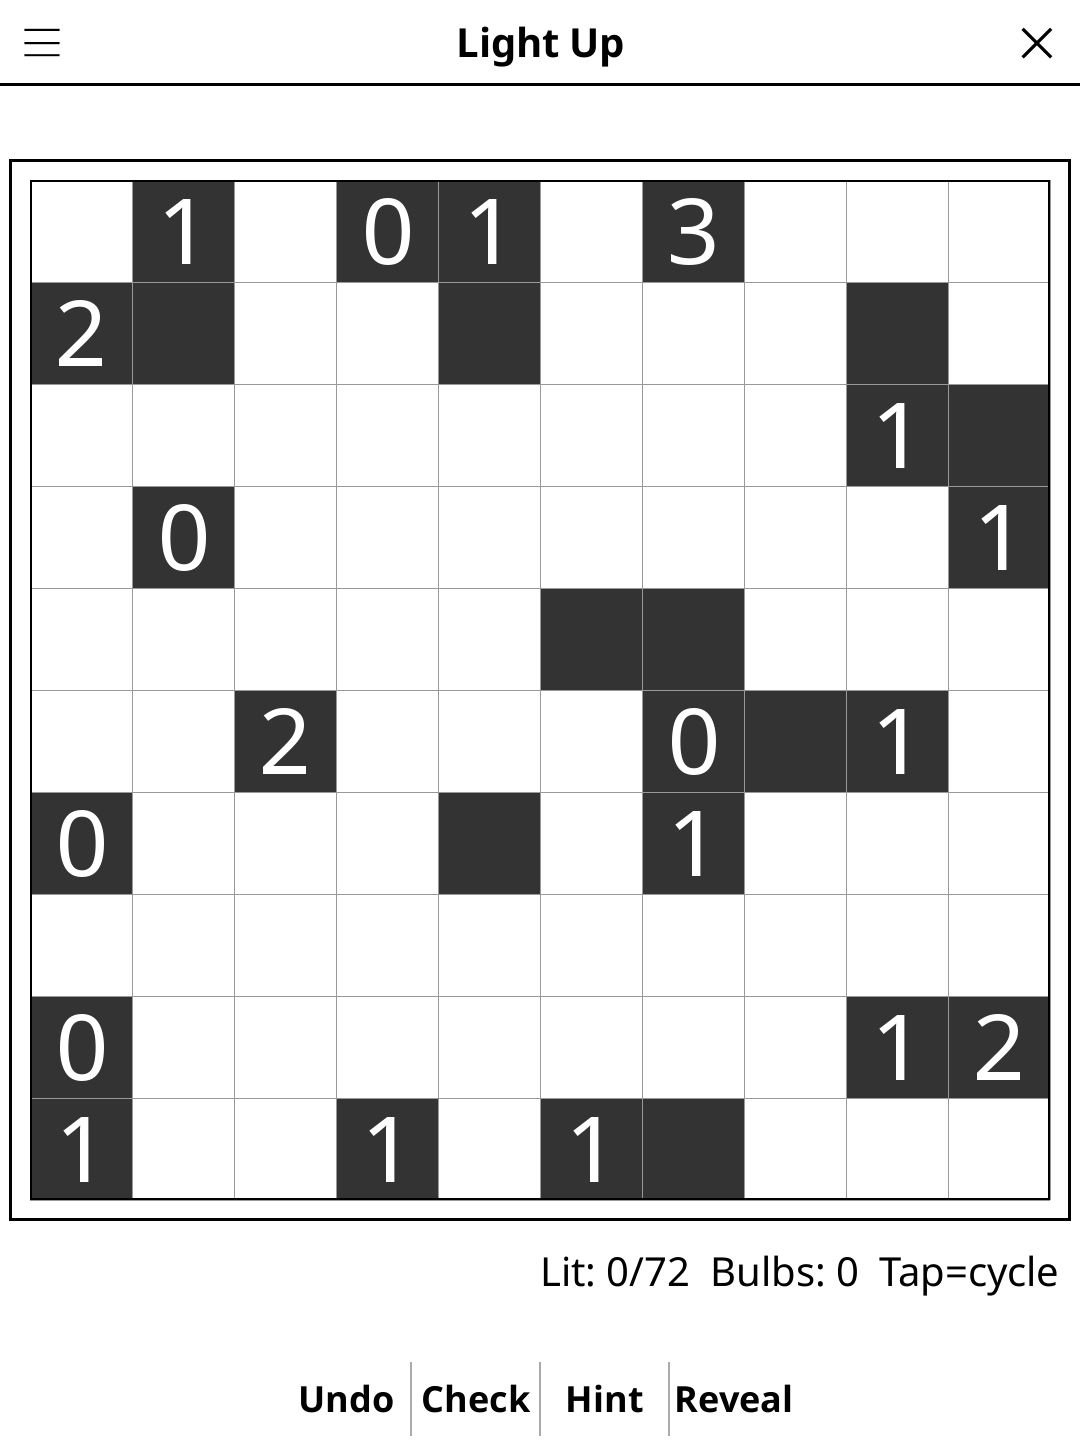
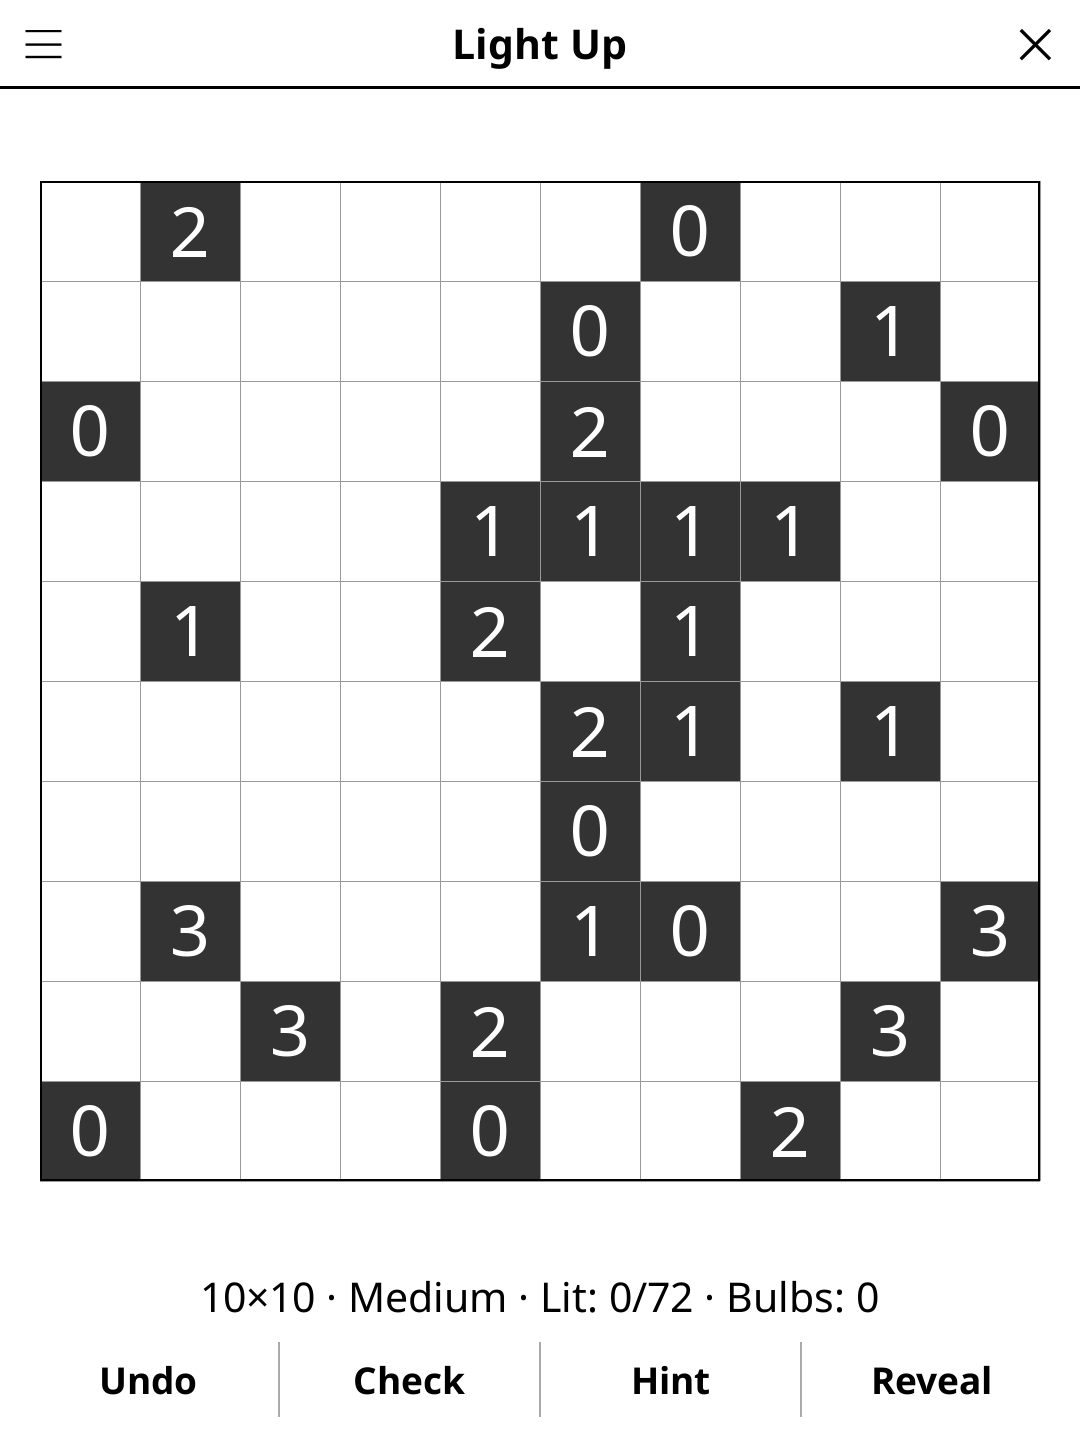
release: 1.3.0 -- redesigned screen, harmonised menu, New game at round end
Screen redesign (full-width action bar, unified pad, status line, larger
board), harmonised title-bar menu, and a "New game" button once the round
is over. See CHANGELOG.md.

diff --git a/CHANGELOG.md b/CHANGELOG.md
@@ -2,6 +2,30 @@
 
 All notable changes to this project will be documented in this file.
 
+## [1.3.0] - 2026-10-30
+
+### Added
+- "New game" once the puzzle is solved (or revealed): the action bar shows
+  it in place of Undo, Check, Hint and Reveal, so the next puzzle no longer
+  needs the menu.
+
+### Changed
+- Redesigned play screen, in line with the other games: a full-width action
+  bar, a larger board that fills the available room, and one frame around
+  it. The status line reads "size · difficulty · Lit: n/m · Bulbs: n" and
+  wraps in landscape instead of being cut off; the tap/hold help moved from
+  the status line to the rules.
+- Title-bar menu shows the current values: "Size: …" and "Difficulty: …"
+  instead of bare values.
+- The dot marking a cell that can't hold a bulb is a painted disc, easier to
+  see than the tiny "·" glyph it replaces.
+- New README screenshot.
+
+### Fixed
+- Using Hint wiped the saved game: the board was saved as nothing. And when
+  a hint fills the last cell, the status now shows the win message.
+- Clue digits outgrew their cells on high-DPI screens.
+
 ## [1.2.2] - 2026-10-07
 
 ### Fixed

diff --git a/README.md b/README.md
@@ -44,8 +44,8 @@ Place light bulbs in white cells of a grid so that:
 | Undo last move | Tap **Undo** |
 | Check progress | Tap **Check** |
 | New game | Tap **New game** |
-| Change grid size | Tap **Grid** |
-| Change difficulty | Tap **Diff** |
+| Change grid size | Tap **Size** |
+| Change difficulty | Tap **Difficulty** |
 | Show rules | Tap **Rules** |
 
 ## Why e-ink friendly?
